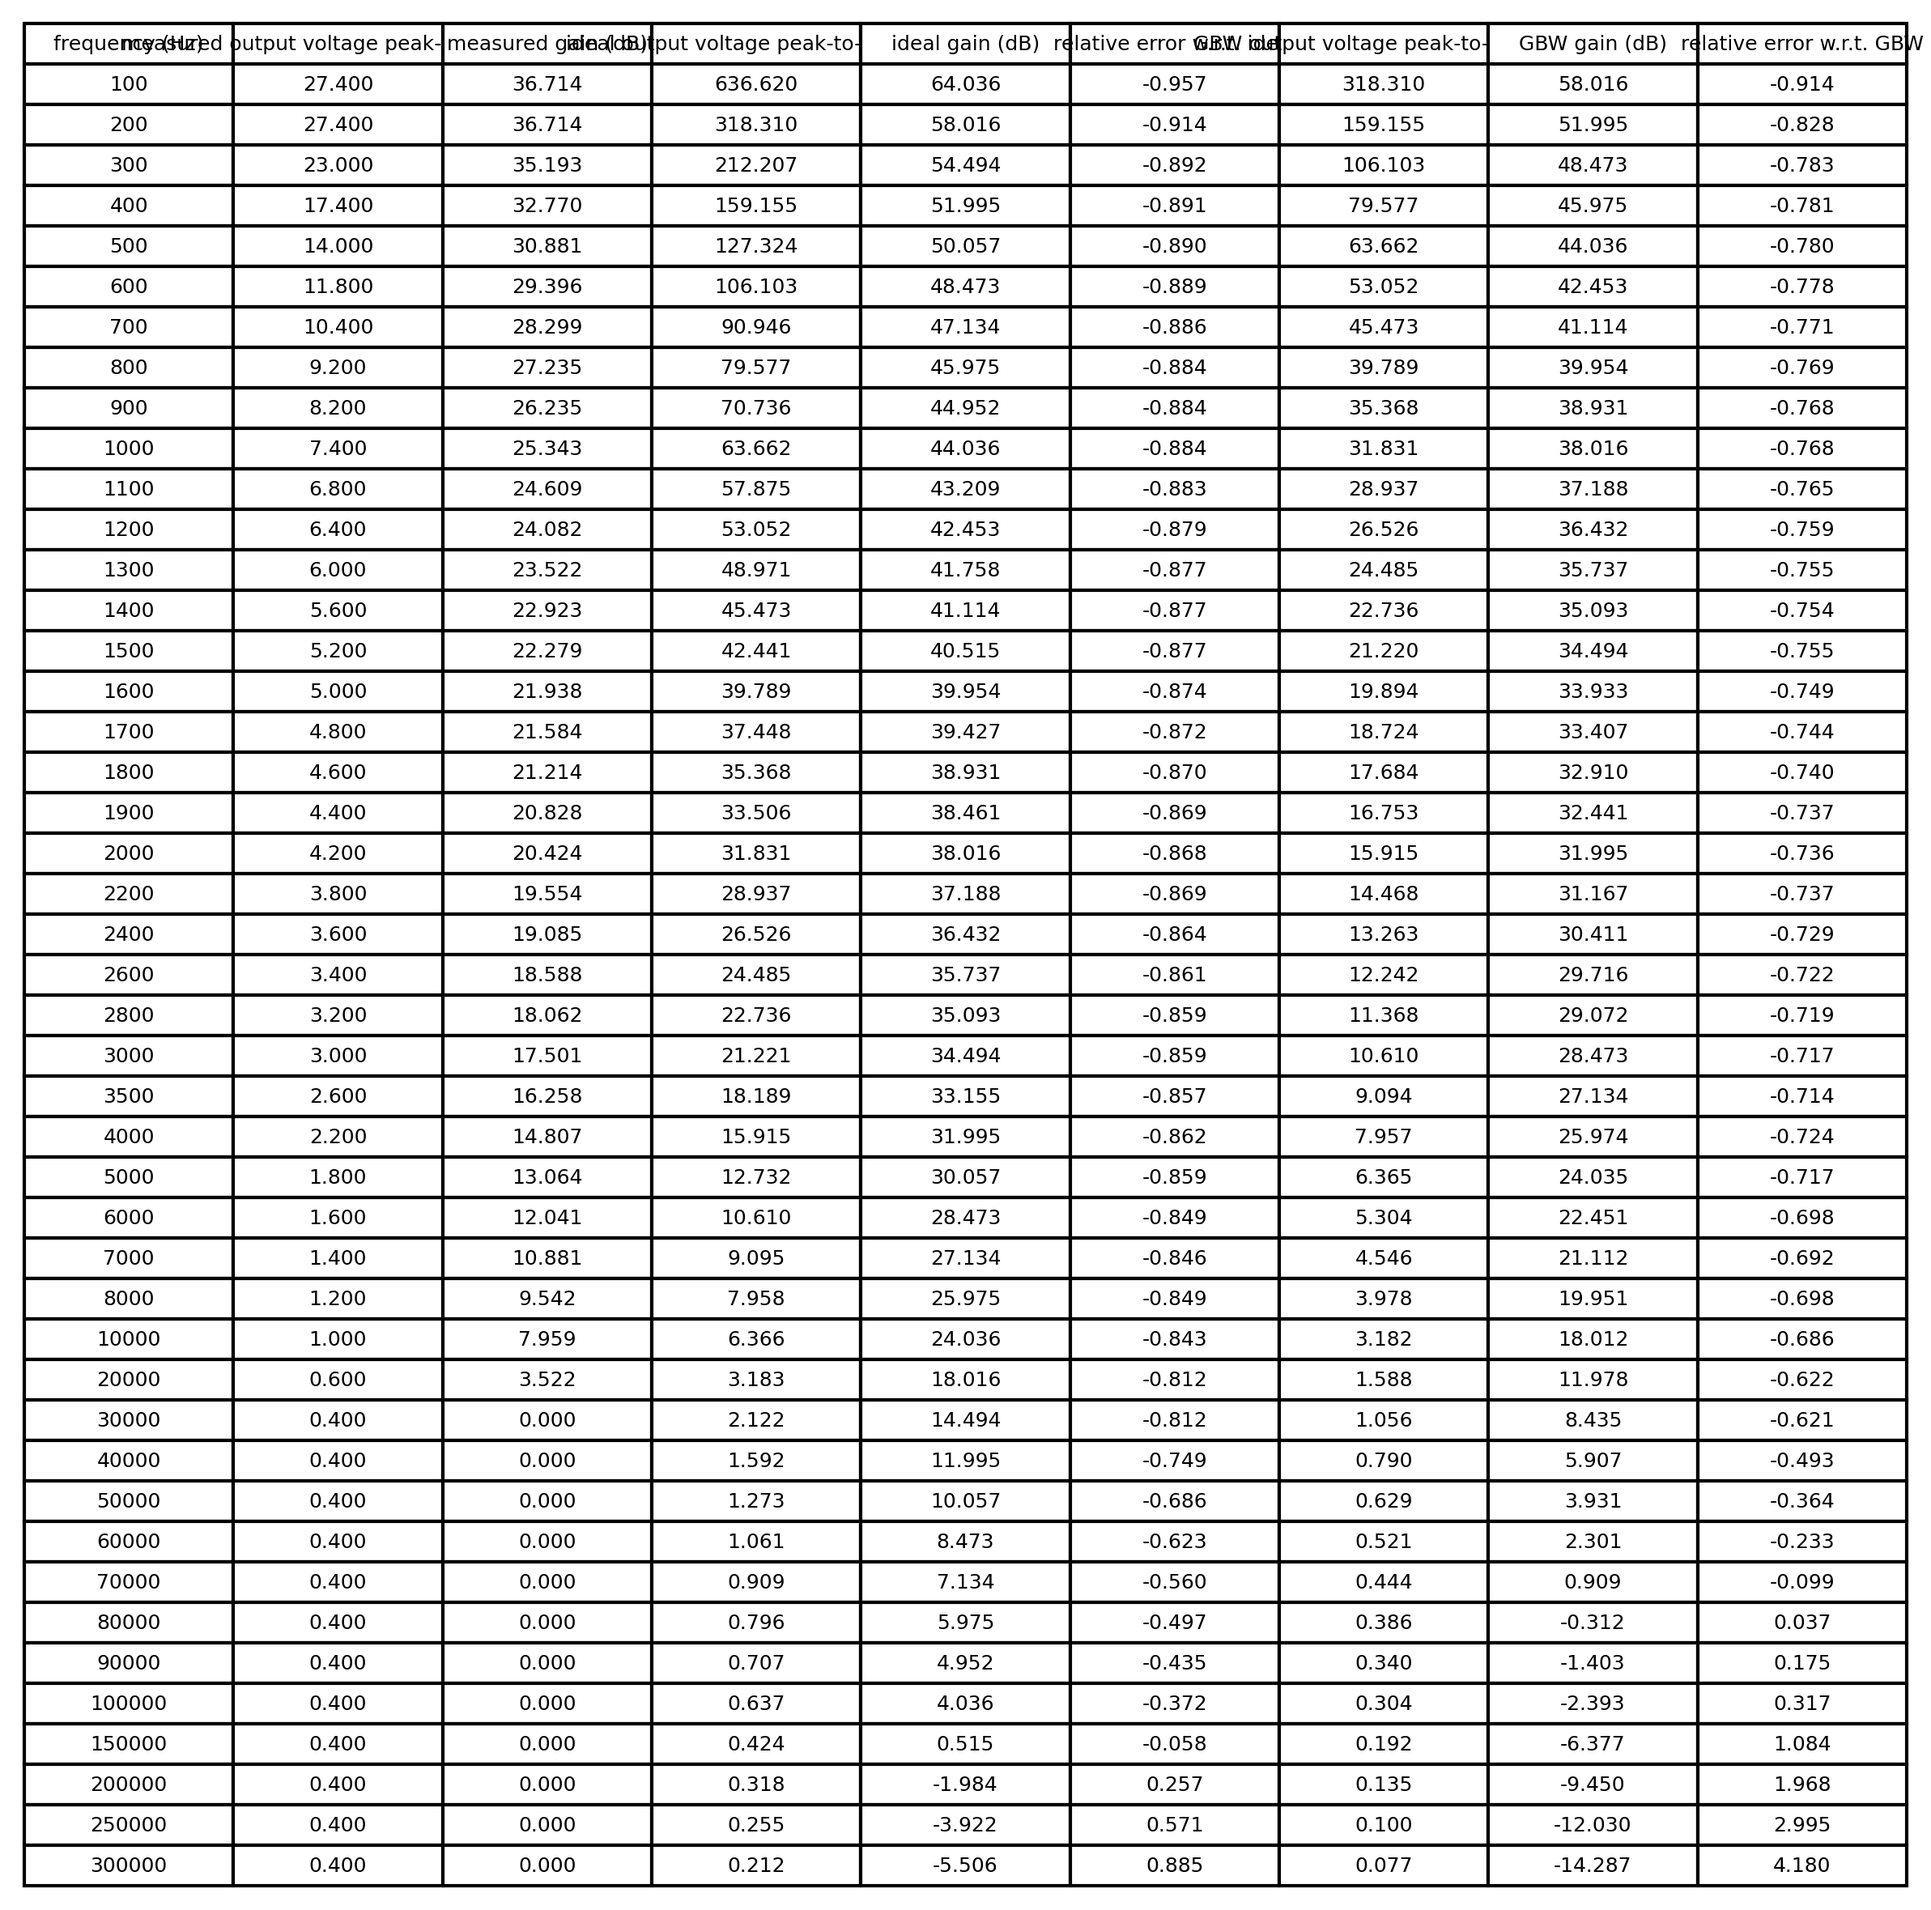
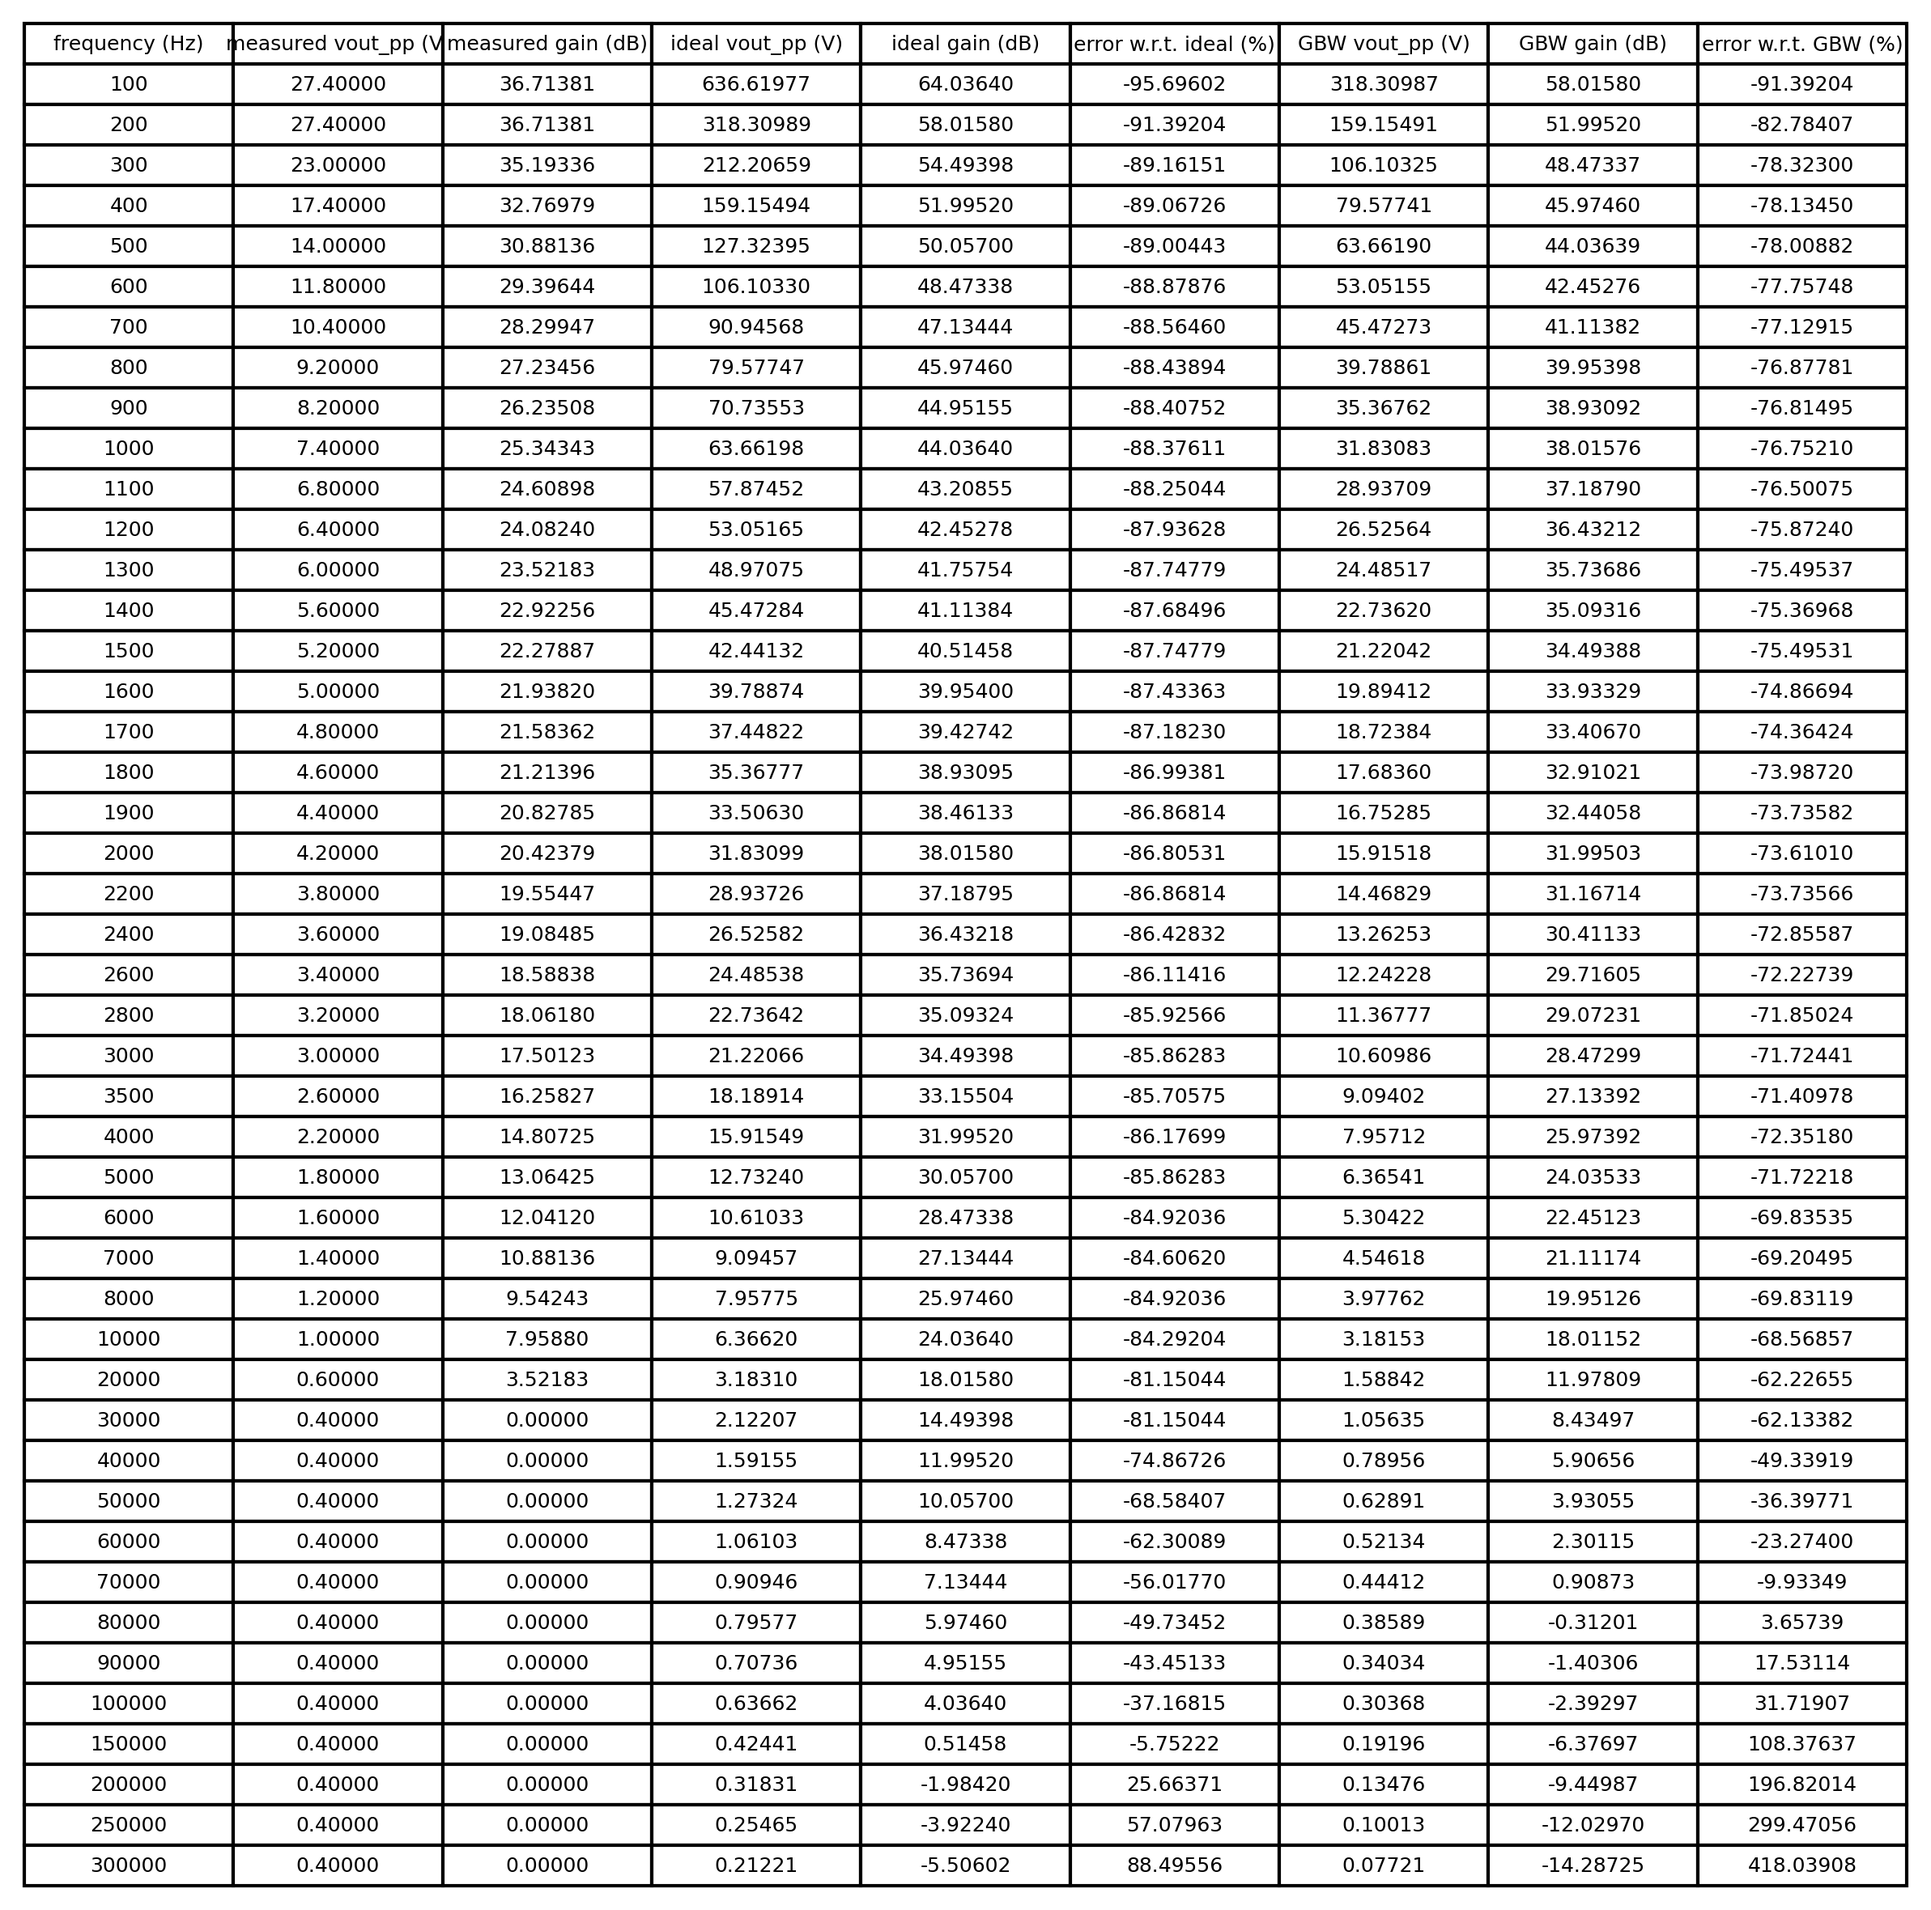
2026-10-20T17:38:33+00:00

diff --git a/2/post-lab/bode_plot.py b/2/post-lab/bode_plot.py
@@ -48,30 +48,30 @@ def process(C, freq, vout_pp, name, title, plotname, tablename):
     measured_db = 20 * np.log10(measured / VIN_PP)
     ideal_db = magnitude_db(H_ideal)
     gbw_db = magnitude_db(H_gbw)
-    ideal_error = (measured - ideal_vout) / ideal_vout
-    gbw_error = (measured - gbw_vout) / gbw_vout
+    ideal_error = 100 * (measured - ideal_vout) / ideal_vout
+    gbw_error = 100 * (measured - gbw_vout) / gbw_vout
     columns = [
         "frequency (Hz)",
-        "measured output voltage peak-to-peak (V)",
+        "measured vout_pp (V)",
         "measured gain (dB)",
-        "ideal output voltage peak-to-peak (V)",
+        "ideal vout_pp (V)",
         "ideal gain (dB)",
-        "relative error w.r.t. ideal",
-        "GBW output voltage peak-to-peak (V)",
+        "error w.r.t. ideal (%)",
+        "GBW vout_pp (V)",
         "GBW gain (dB)",
-        "relative error w.r.t. GBW",
+        "error w.r.t. GBW (%)",
     ]
     data = [
         [
             f"{f:.0f}",
-            f"{m:.3f}",
-            f"{md:.3f}",
-            f"{i:.3f}",
-            f"{id:.3f}",
-            f"{ie:.3f}",
-            f"{g:.3f}",
-            f"{gd:.3f}",
-            f"{ge:.3f}",
+            f"{m:.5f}",
+            f"{md:.5f}",
+            f"{i:.5f}",
+            f"{id:.5f}",
+            f"{ie:.5f}",
+            f"{g:.5f}",
+            f"{gd:.5f}",
+            f"{ge:.5f}",
         ]
         for f, m, md, i, id, ie, g, gd, ge in zip(
             freq,
